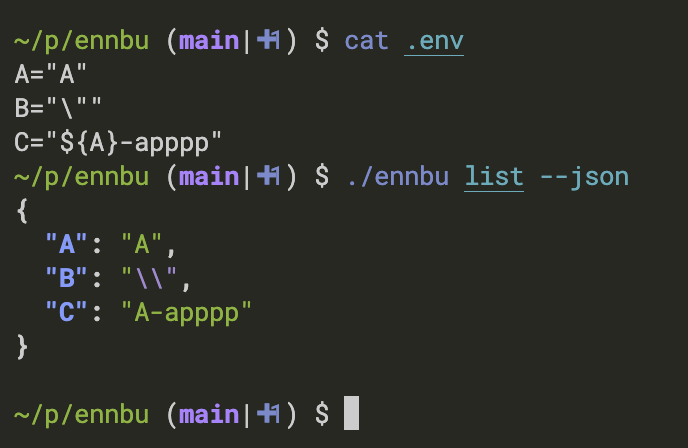
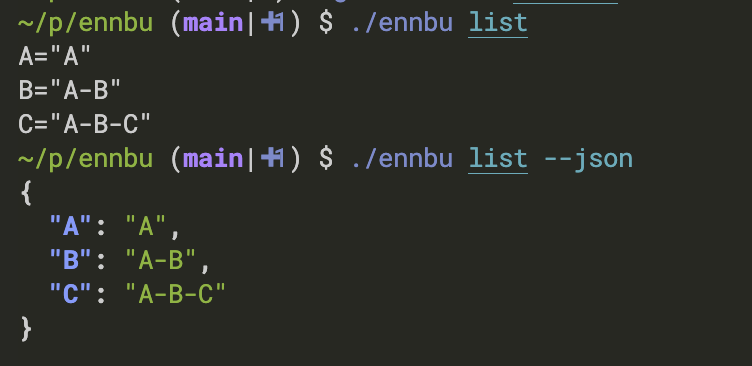
fix: over quoting

diff --git a/env/escape.go b/env/escape.go
@@ -2,7 +2,6 @@ package env
 
 import (
 	"bytes"
-	"fmt"
 )
 
 func EscapeSpecialChars(value string) string {
@@ -19,5 +18,5 @@ func EscapeSpecialChars(value string) string {
 			buf.WriteRune(r)
 		}
 	}
-	return fmt.Sprintf("\"%s\"", buf.String())
+	return buf.String()
 }

diff --git a/cmd/replace.go b/cmd/replace.go
@@ -22,6 +22,7 @@ $ ennbu replace -e .env.development -k KEY VALUE
 }
 
 func init() {
+	replaceCmd.Flags().BoolP(replace.FlagEscape, "e", false, "value is escaped")
 	_ = replaceCmd.MarkFlagRequired(flags.FlagKey)
 
 	rootCmd.AddCommand(replaceCmd)

diff --git a/README.md b/README.md
@@ -90,13 +90,13 @@ KEY_NAME="aa\nbbb\n\tccc"
 ```bash
 # normally
 ennbu get KEY_NAME
-# aa\nbbb\n\tccc
+# aa\nbbb\nccc
 
 # unescape
 ennbu get KEY_NAME -u
 #aa
 #bb
-# cc
+#cc
 ```
 
 #### List
@@ -129,6 +129,16 @@ To replace a value for an existing key in a .env file, use the `replace` command
 
 ```bash
 echo NEW_VALUE | ennbu replace  -f .env -k KEY_NAME
+```
+
+`--escape` flags escape value
+
+``bash
+ennbu set -k PRIVATE_KEY -e --  "$(cat id_ed25519)"
+```
+
+```text
+PRIVATE_KEY=
 ```
 
 ## Contributing
